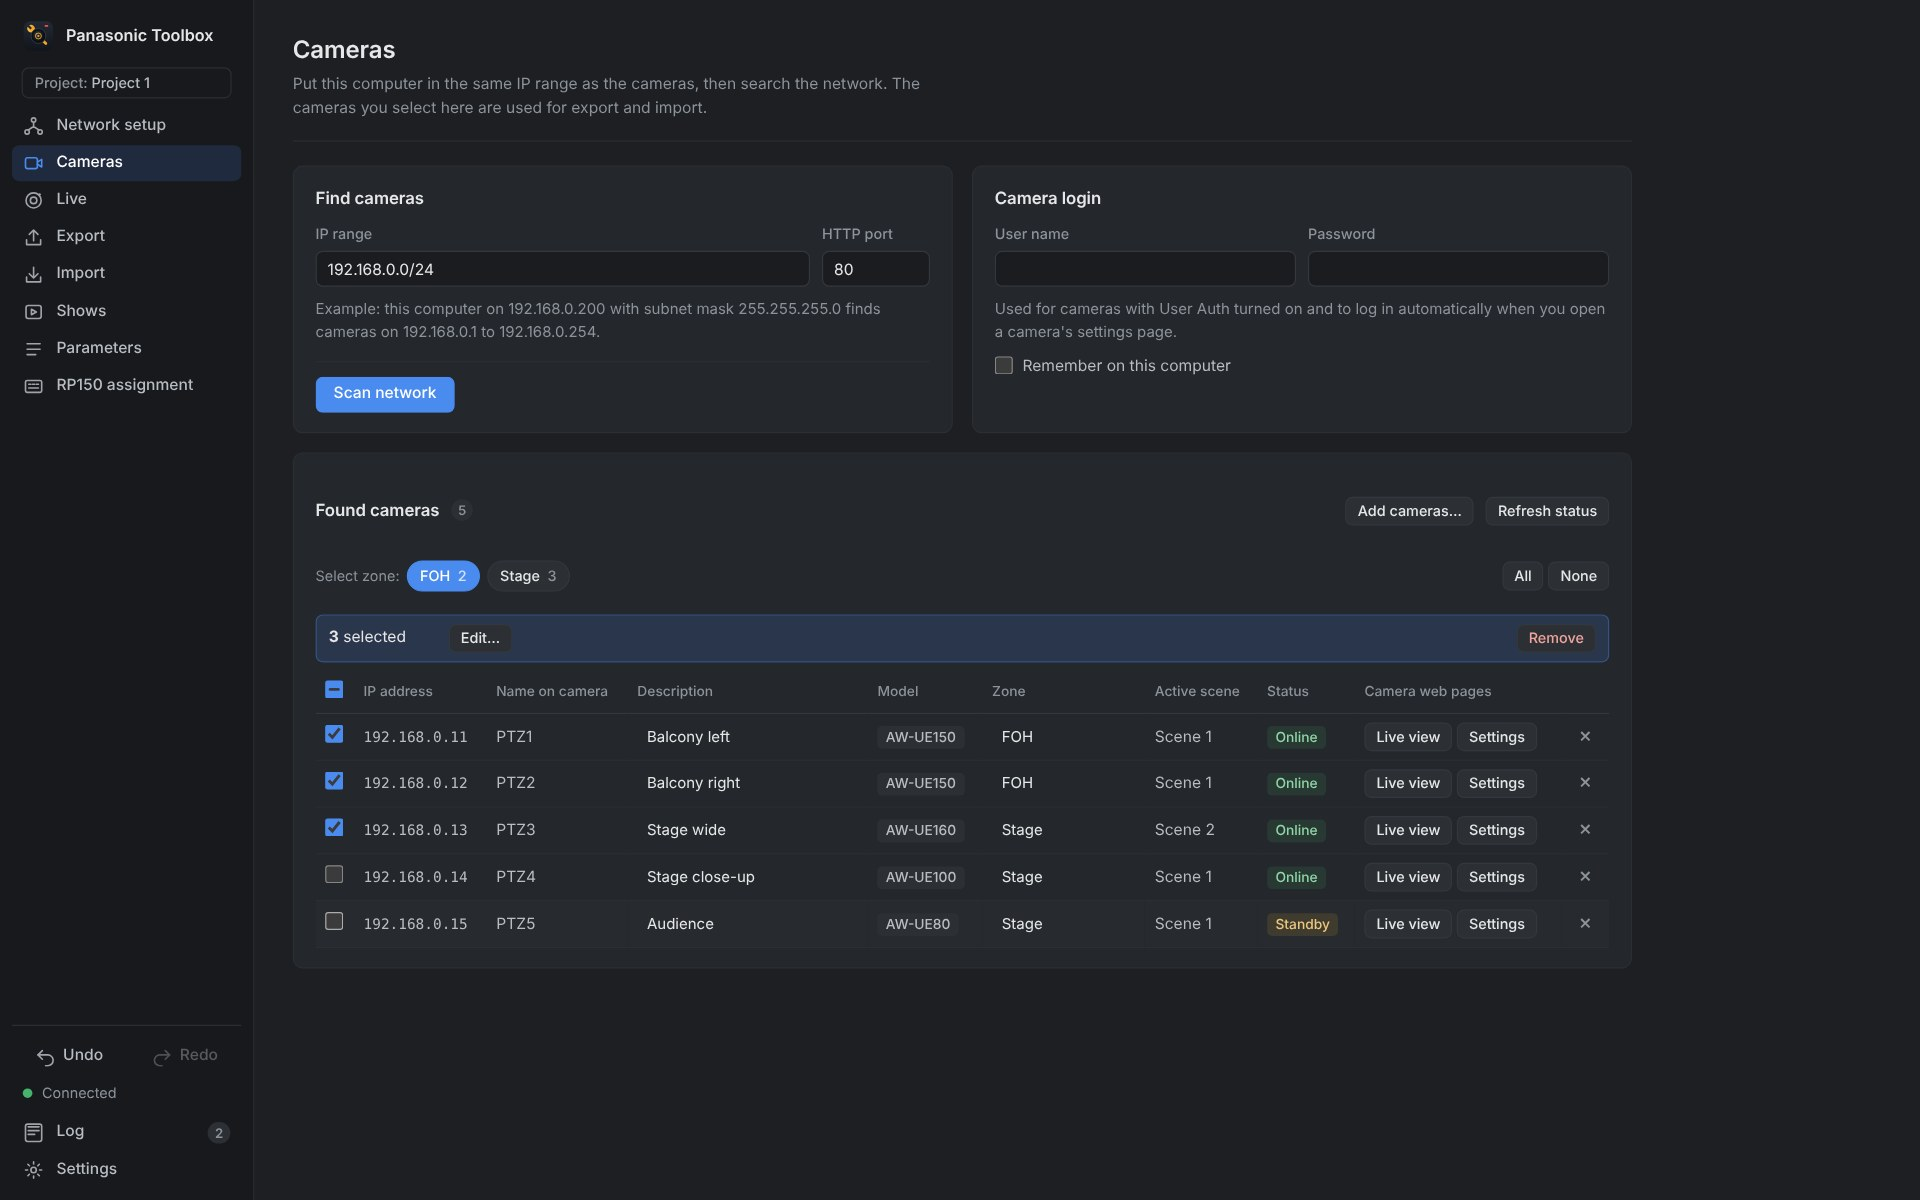
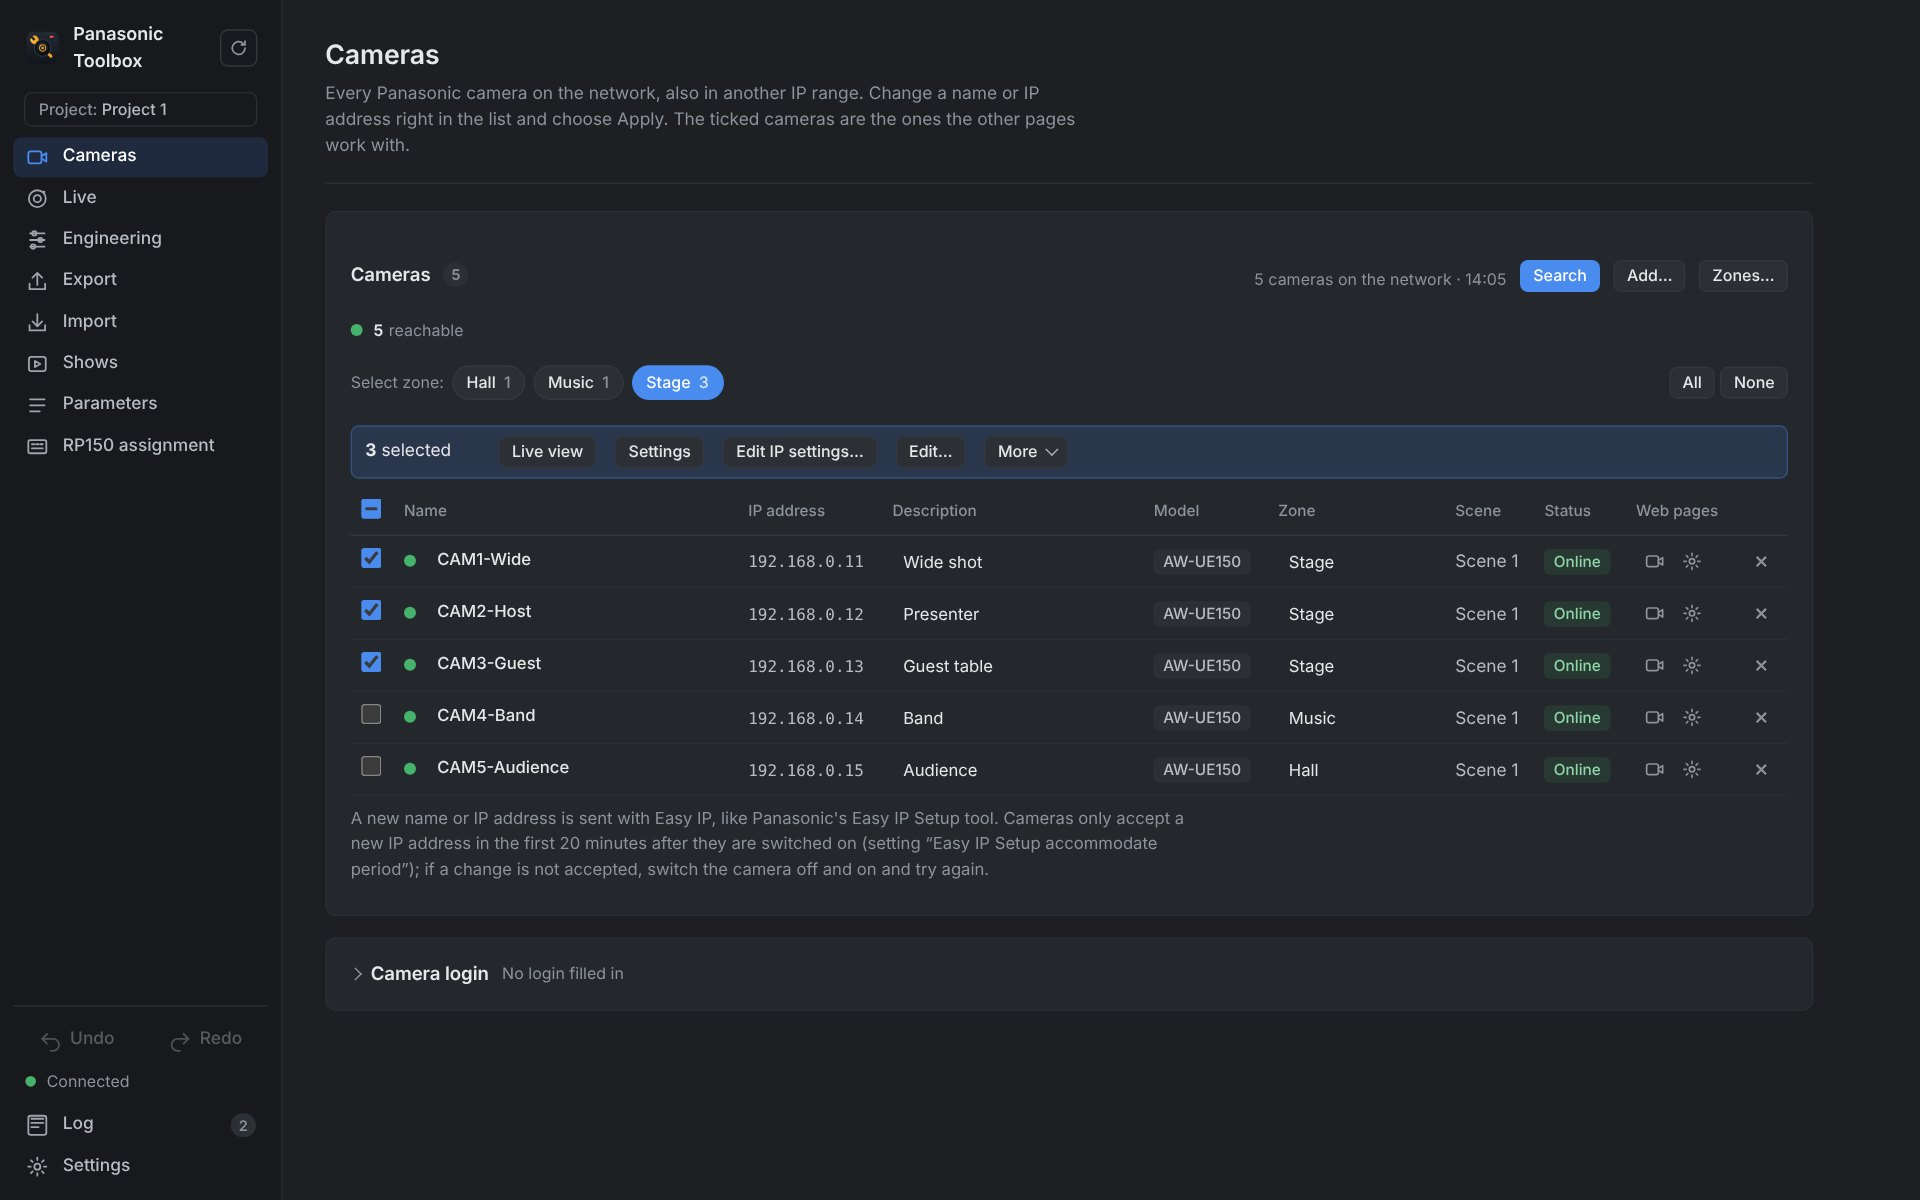
Website: new screenshot (one Cameras page) and simpler feature text
Claude-Session: https://claude.ai/code/session_01HgjfbPTgrMCuT4aRUTPaXz

diff --git a/index.html b/index.html
@@ -147,9 +147,9 @@ footer .wrap{display:flex;justify-content:space-between;gap:20px;flex-wrap:wrap}
     <figure class="shot">
       <div class="frame">
         <div class="chrome" aria-hidden="true"><i></i><i></i><i></i></div>
-        <img src="assets/app-screenshot.jpg" width="1920" height="1200" alt="Panasonic Toolbox listing five cameras with a description, the name on the camera, IP address, model, zone, active scene, status and buttons for their web pages.">
+        <img src="assets/app-screenshot.jpg" width="1920" height="1200" alt="Panasonic Toolbox showing five cameras in one list, each with a green dot, its name, address, description, model and zone.">
       </div>
-      <figcaption>Every camera in one list, with your own description, its name, model, zone and live scene.</figcaption>
+      <figcaption>All your cameras in one list. A green dot means the camera is ready.</figcaption>
     </figure>
   </div>
 
@@ -157,44 +157,32 @@ footer .wrap{display:flex;justify-content:space-between;gap:20px;flex-wrap:wrap}
     <section class="sec">
       <div class="sec-head">
         <h2>Everything in one app</h2>
-        <p>No more switching between Easy IP Setup, web pages, the controller menu and a text file of commands.</p>
+        <p>Find, control, back up and set up your Panasonic PTZ cameras. No technical knowledge needed.</p>
       </div>
       <div class="tabrows">
         <div class="tabrow">
-          <h3><svg viewBox="0 0 20 20" aria-hidden="true"><rect x="2.5" y="5" width="11" height="10" rx="2"/><path d="M13.5 9l4-2.5v7l-4-2.5"/></svg>Cameras</h3>
-          <div><p>Every Panasonic camera on the network in one list, also in another IP range. Change names and IP addresses right there, like Easy IP Setup.</p><ul><li>See at a glance which cameras are in your range and reachable</li><li>Name, IP address, subnet mask and gateway of many cameras in one go</li><li>Zones, descriptions and the camera web pages in one click, already logged in</li></ul></div>
+          <h3><svg viewBox="0 0 20 20" aria-hidden="true"><rect x="2.5" y="5" width="11" height="10" rx="2"/><path d="M13.5 9l4-2.5v7l-4-2.5"/></svg>Find your cameras</h3>
+          <div><p>The app finds every Panasonic camera on your network, even when it has the wrong IP address.</p><ul><li>A green dot: the camera works; orange: it needs another address</li><li>Change names and addresses in the list</li><li>Open a camera's own web page in one click, already logged in</li></ul></div>
         </div>
         <div class="tabrow">
-          <h3><svg viewBox="0 0 20 20" aria-hidden="true"><circle cx="10" cy="10" r="7"/><circle cx="10" cy="10" r="3"/><circle cx="15.5" cy="4.5" r="1.2" fill="currentColor" stroke="none"/></svg>Live</h3>
-          <div><p>Watch a camera and control it from your computer.</p><ul><li>Live picture with control buttons</li><li>Speed readout, back to nominal in one click</li><li>Keyboard control</li></ul></div>
+          <h3><svg viewBox="0 0 20 20" aria-hidden="true"><circle cx="10" cy="10" r="7"/><circle cx="10" cy="10" r="3"/><circle cx="15.5" cy="4.5" r="1.2" fill="currentColor" stroke="none"/></svg>Control a camera</h3>
+          <div><p>Watch the picture and move, zoom and focus from your computer.</p><ul><li>Presets, white balance and scenes with one click</li><li>Works with the keyboard too</li></ul></div>
         </div>
         <div class="tabrow">
-          <h3><svg viewBox="0 0 20 20" aria-hidden="true"><path d="M4 4.5h12M4 10h12M4 15.5h12"/><circle cx="7.5" cy="4.5" r="1.8"/><circle cx="12.5" cy="10" r="1.8"/><circle cx="6.5" cy="15.5" r="1.8"/></svg>Engineering</h3>
-          <div><p>One action on many cameras at once, with the result per camera.</p><ul><li>Power, scene, tally and white balance (3200K, 5600K, VAR in kelvin)</li><li>Setup for many cameras: format, OSD mix, tally, pan/tilt, presets, fans and the white balance of scenes 1–4 in one form</li><li>Read the setup of one camera and copy it to all the others</li><li>Installation, preset scope and IP video</li><li>Initialize: put your default scene back on many cameras at once</li></ul></div>
+          <h3><svg viewBox="0 0 20 20" aria-hidden="true"><path d="M4 4.5h12M4 10h12M4 15.5h12"/><circle cx="7.5" cy="4.5" r="1.8"/><circle cx="12.5" cy="10" r="1.8"/><circle cx="6.5" cy="15.5" r="1.8"/></svg>Many cameras at once</h3>
+          <div><p>Do the same thing on all your cameras in one go.</p><ul><li>Switch them on or to standby, pick a scene, white balance, tally</li><li>Copy the setup of one camera to all the others</li></ul></div>
         </div>
         <div class="tabrow">
-          <h3><svg viewBox="0 0 20 20" aria-hidden="true"><path d="M10 13V3M6 7l4-4 4 4"/><path d="M3.5 12v4.5h13V12"/></svg>Export</h3>
-          <div><p>Save a camera's settings to a file, from any scene.</p><ul><li>Scene files with all shading settings</li><li>Operator files with an operator's own preferences</li><li>Many cameras at once</li></ul></div>
-        </div>
-        <div class="tabrow">
-          <h3><svg viewBox="0 0 20 20" aria-hidden="true"><path d="M10 3v10M6 9l4 4 4-4"/><path d="M3.5 12v4.5h13V12"/></svg>Import</h3>
-          <div><p>Put saved settings back on any camera and scene.</p><ul><li>See the differences first</li><li>Automatic backup and check afterwards</li><li>Undo and redo</li></ul></div>
+          <h3><svg viewBox="0 0 20 20" aria-hidden="true"><path d="M10 13V3M6 7l4-4 4 4"/><path d="M3.5 12v4.5h13V12"/></svg>Back up and restore</h3>
+          <div><p>Save how your cameras look in a file and put it back whenever you want.</p><ul><li>One button backs up every camera</li><li>You see what changes before anything is sent</li><li>Undo if you change your mind</li></ul></div>
         </div>
         <div class="tabrow">
           <h3><svg viewBox="0 0 20 20" aria-hidden="true"><rect x="3" y="4" width="14" height="12" rx="2"/><path d="M8 7.5l4.5 2.5L8 12.5z"/></svg>Shows</h3>
-          <div><p>Put a complete setup on all cameras with one click.</p><ul><li>Made from the cameras or from saved files</li><li>Edit a show at any time</li></ul></div>
+          <div><p>Put a whole setup on all cameras with one click, for example "Concert" or "Talk show".</p><ul><li>Made from your cameras as they are now</li></ul></div>
         </div>
         <div class="tabrow">
-          <h3><svg viewBox="0 0 20 20" aria-hidden="true"><path d="M4 5h12M4 10h12M4 15h8"/></svg>Parameters</h3>
-          <div><p>Look up every camera command and use it in other software.</p><ul><li>A ready-made link for every command</li><li>Generate scripts that run a specified action on multiple cameras at once</li><li>An overview of what is in a scene file and an operator file, per model</li></ul></div>
-        </div>
-        <div class="tabrow">
-          <h3><svg viewBox="0 0 20 20" aria-hidden="true"><rect x="2.5" y="4.5" width="15" height="11" rx="1.5"/><path d="M5.5 8h2M9 8h2M12.5 8h2M5.5 11.5h9"/></svg>RP150 assignment</h3>
-          <div><p>Assign cameras to an AW-RP150 without its menus. Experimental.</p><ul><li>Select the connection type for each button</li><li>Assign the specified cameras to the correct buttons in bulk</li></ul></div>
-        </div>
-        <div class="tabrow">
-          <h3><svg viewBox="0 0 20 20" aria-hidden="true"><circle cx="10" cy="10" r="2.5"/><path d="M10 2.5v2M10 15.5v2M2.5 10h2M15.5 10h2M4.7 4.7l1.4 1.4M13.9 13.9l1.4 1.4M4.7 15.3l1.4-1.4M13.9 6.1l1.4-1.4"/></svg>Settings</h3>
-          <div><p>Keep productions apart and take your setup to another computer.</p><ul><li>Projects, each with its own cameras, shows and settings</li><li>A project file to open a project on another computer</li><li>A folder per project, with a subfolder for every kind of file</li></ul></div>
+          <h3><svg viewBox="0 0 20 20" aria-hidden="true"><path d="M4 5h12M4 10h12M4 15h8"/></svg>Expert tools</h3>
+          <div><p>For technicians: every camera command, scripts and AW-RP150 button assignment.</p><ul><li>Hidden until you switch them on in Settings</li></ul></div>
         </div>
       </div>
     </section>
